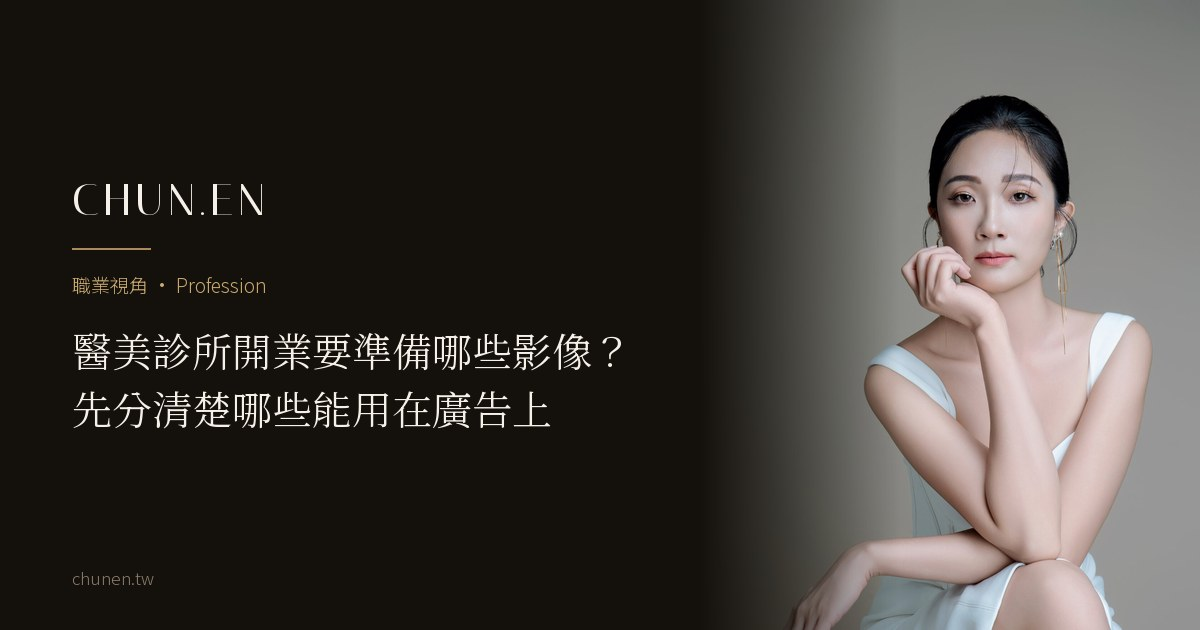
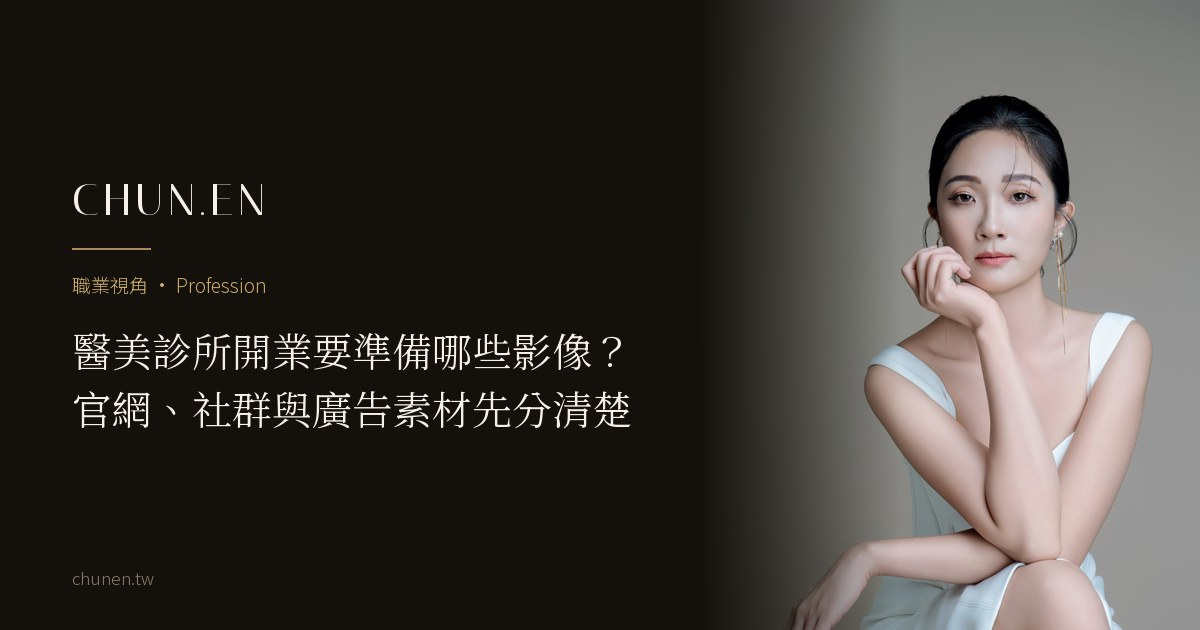
journal(醫美診所篇)：依 09/10 完整審閱改 v2，法規段改引正式文號
P0（審閱判斷正確，過度結論是我寫的）：
- 取消「人物、團隊、空間影像是相對能自由使用的一類」。醫療廣告是否合法看圖片、
  搭配文字、療程與價格、發布目的與整體呈現，不看素材類型。搜尋摘要、本文重點、
  正文、Quote、FAQ 五處同步改掉
- FAQ「素材本身可以」改成「不一定」
- H1 不再承諾替讀者判定「哪些能用在廣告上」

法規段查證後改寫：
- 回兩個官方頁面（北市、高市衛生局）確認文號為衛部醫字第1051667434號，
  對應醫療法第 86 條第 7 款。北市稱「函」、高市稱「令公告」，類型不一，
  所以不寫「函釋」，直接引文號
- 兩個官方頁面都沒提到「取得病人同意」與「代言推薦同樣受限」，那兩句只出自
  第三方整理，已刪除或改成不帶具體法條主張的寫法
- 官方來源改為文字連結

其餘：Definition 移到開頭、四類表格前移、「比多數人想的」「才知道」
「不是照片，是規則」等無依據或假對立句型收掉。「素材會持續更新」段保留一句
條件式的經營者視角（本篇存在的理由），不寫成普遍情況。

Changed region(s): [[0.0617, 0.6032, 0.5242, 0.6937]]

diff --git a/journal/aesthetic-clinic-visual-assets.html b/journal/aesthetic-clinic-visual-assets.html
@@ -4,22 +4,22 @@
   <meta charset="UTF-8" />
   <meta name="viewport" content="width=device-width, initial-scale=1.0, viewport-fit=cover" />
   <meta name="robots" content="noindex" /><!-- 草稿：Kay 審核後移除此行＋掛列表頁＋入 sitemap -->
-  <title>醫美診所開業要準備哪些影像？先分清楚哪些能用在廣告上｜CHUN.EN 觀點</title>
-  <meta name="description" content="醫美診所開業要準備的影像素材，先看的其實是限制。治療前後比較影像與代言推薦受醫療法規範，人物、團隊與空間影像則是相對能自由使用的一類。這篇整理經營者要備哪四類影像，以及廣告版位與官網版位的要求差在哪。" />
+  <title>醫美診所開業要準備哪些影像？官網、社群與廣告素材先分清楚｜CHUN.EN 觀點</title>
+  <meta name="description" content="醫美診所開業常見要準備的影像，可以分成院長與醫師人物照、團隊照、空間照，以及官網、社群與廣告需要的版位素材。這篇整理四類素材各自的用途、拍攝前要確認的事，以及素材進入醫療廣告時要一起注意的法規邊界。" />
   <meta name="theme-color" content="#14100B" />
   <link rel="icon" href="/favicon.ico" sizes="48x48" />
   <link rel="icon" href="/favicon-32.png" type="image/png" sizes="32x32" />
   <link rel="apple-touch-icon" href="/apple-touch-icon.png" />
   <link rel="canonical" href="https://chunen.tw/journal/aesthetic-clinic-visual-assets.html" />
-  <meta property="og:title" content="醫美診所開業要準備哪些影像？先分清楚哪些能用在廣告上｜CHUN.EN 觀點" />
-  <meta property="og:description" content="醫美診所能自由使用的影像，比多數人想的少。先分清楚哪些能用，再決定拍什麼。" />
+  <meta property="og:title" content="醫美診所開業要準備哪些影像？官網、社群與廣告素材先分清楚｜CHUN.EN 觀點" />
+  <meta property="og:description" content="醫美診所開業的影像分成四類；進入廣告時，要連同文字、目的與整體內容一起看。" />
   <meta property="og:image" content="https://chunen.tw/assets/og/aesthetic-clinic-visual-assets-og.jpg" />
   <meta property="og:url" content="https://chunen.tw/journal/aesthetic-clinic-visual-assets.html" />
   <meta property="og:type" content="article" />
   <meta property="og:locale" content="zh_TW" />
   <meta name="twitter:card" content="summary_large_image" />
-  <meta name="twitter:title" content="醫美診所開業要準備哪些影像？先分清楚哪些能用在廣告上｜CHUN.EN 觀點" />
-  <meta name="twitter:description" content="醫美診所能自由使用的影像，比多數人想的少。先分清楚哪些能用，再決定拍什麼。" />
+  <meta name="twitter:title" content="醫美診所開業要準備哪些影像？官網、社群與廣告素材先分清楚｜CHUN.EN 觀點" />
+  <meta name="twitter:description" content="醫美診所開業的影像分成四類；進入廣告時，要連同文字、目的與整體內容一起看。" />
   <meta name="twitter:image" content="https://chunen.tw/assets/og/aesthetic-clinic-visual-assets-og.jpg" />
   <link rel="preconnect" href="https://fonts.googleapis.com" />
   <link rel="preconnect" href="https://fonts.gstatic.com" crossorigin />
@@ -68,7 +68,7 @@
     <header style="padding: clamp(9rem, 16vh, 11rem) 0 clamp(2rem, 4vh, 3rem);">
       <div class="wrap article-wrap">
         <p class="hero-eyebrow rv">職業視角 · Profession</p>
-        <h1 class="rv rv-d1" style="font-weight: 300; font-size: clamp(1.9rem, 4.4vw, 3.2rem); line-height: 1.4; margin-top: 1rem;"><span style="white-space:nowrap;">醫美診所開業</span><span style="white-space:nowrap;">要準備哪些影像？</span><br><span style="white-space:nowrap;">先分清楚</span><span style="white-space:nowrap;">哪些能用在廣告上</span></h1>
+        <h1 class="rv rv-d1" style="font-weight: 300; font-size: clamp(1.9rem, 4.4vw, 3.2rem); line-height: 1.4; margin-top: 1rem;"><span style="white-space:nowrap;">醫美診所開業</span><span style="white-space:nowrap;">要準備哪些影像？</span><br><span style="white-space:nowrap;">官網、社群與廣告素材</span><span style="white-space:nowrap;">先分清楚</span></h1>
         <p class="article-meta rv rv-d2">CHUN.EN 觀點 · 2026 · 閱讀約 6 分鐘</p>
       </div>
     </header>
@@ -80,64 +80,63 @@
       <div class="keypoints rv">
         <p class="kp-t">In This Article · 本文重點</p>
         <ul>
-            <li>治療前後比較影像與代言推薦受醫療法規範，可使用的範圍有限</li>
-            <li>人物、團隊與空間影像不涉及療效宣稱，是相對能自由使用的一類</li>
-            <li>官網版位與廣告版位對素材的要求不同，拍攝前就要分開</li>
+            <li>醫美診所開業常見的影像素材，可以分成人物照、團隊照、空間照與版位素材四類</li>
+            <li>療程前後比較影像用於醫療業務宣傳，屬於醫療廣告需要特別注意的限制</li>
+            <li>素材進入廣告時，要連同圖片、文字、療程與價格資訊、發布目的與整體內容一起判斷</li>
           </ul>
       </div>
 
       <div class="article-body rv">
-<p class="article-lead">開一家醫美診所要準備的影像，比多數人想的多；但真正能自由使用的，比多數人想的少。</p>
-<p>多數人會先想到療程前後的對比照，那卻是限制最多的一類。</p>
+<p class="article-lead">醫美診所開業常見要準備的影像，可以先分成院長與醫師人物照、團隊照、空間照，以及官網、社群與廣告等版位需要的素材。</p>
+<p>這些素材的用途不同，進入醫療廣告時也不能只看照片本身，還要一起確認搭配文字、發布目的與整體內容。</p>
 
-<h2>先看限制，再決定拍什麼</h2>
-<p>醫療法第 86 條規範醫療廣告不得以不正當方式為之。依衛生福利部 105 年 11 月 17 日的函釋，把手術或治療前後的比較影像用於醫療業務宣傳，屬於違反該條的不正當宣傳方式；若是在機構內、事先取得病人同意，作為治療說明或衛生教育的輔助圖片，則不屬於醫療廣告。代言推薦同樣受到限制。</p>
-<p>也就是說，最直覺的兩類素材，對比照與見證，可用的範圍都被限縮。</p>
-<p>相對的，人物、團隊與空間影像本身不涉及療效宣稱，是診所少數能同時放在官網、Google 商家、社群與廣告版位的視覺資產。</p>
-<p>實際上是否構成醫療廣告、是否符合規範，仍要看整體內容判斷，正式發布前由院所依當時法規與主管機關指引完成法遵確認。</p>
-<p>延伸資料｜衛福部醫療廣告管理資訊 <a href="https://dep.mohw.gov.tw/DOMA/fp-2708-38120-106.html" rel="nofollow">https://dep.mohw.gov.tw/DOMA/fp-2708-38120-106.html</a></p>
-
-<h2>經營者要備的四類影像</h2>
+<h2>開業常見的四類影像</h2>
 <div class="tbl-scroll">
 <table>
 <thead><tr><th>類別</th><th>常見版位</th><th>拍攝前先確認</th></tr></thead>
 <tbody>
-<tr><td>院長與醫師人物照</td><td>官網團隊頁、掛號頁、Google 商家、媒體</td><td>是否需要白袍、正式程度、橫式／直式與裁切需求</td></tr><tr><td>團隊照</td><td>官網、社群、招募頁</td><td>背景、光線、構圖與著裝規則能不能留下來重複使用</td></tr><tr><td>空間照</td><td>Google 商家、官網、地圖</td><td>與人物照的色溫與明暗是否同一個方向</td></tr><tr><td>品牌與版位素材</td><td>廣告、DM、社群模板</td><td>留白位置、需要哪些比例、文案之後要放在哪</td></tr>
+<tr><td>院長與醫師人物照</td><td>官網團隊頁、掛號頁、Google 商家、媒體</td><td>是否需要白袍、正式程度、橫式／直式與裁切需求</td></tr><tr><td>團隊照</td><td>官網、社群、招募頁</td><td>背景、光線、構圖與著裝規則能不能留下來重複使用</td></tr><tr><td>空間照</td><td>Google 商家、官網、地圖</td><td>與人物照的色溫與明暗是否同一個方向</td></tr><tr><td>廣告與社群版位素材</td><td>廣告、DM、社群貼文與活動頁面</td><td>文字留白、橫直比例、人物位置與後續裁切需求</td></tr>
 </tbody>
 </table>
 </div>
-<p>四類不一定要一次拍完，但版位先列出來，才知道同一次拍攝要出幾種比例與構圖。</p>
+<p>四類不一定要一次拍完。版位先列出來，會比較容易判斷同一次拍攝需要哪些比例、構圖與留白。</p>
 
-<h2>官網版位與廣告版位，要的東西不一樣</h2>
-<p>官網可以用完整構圖，讀者會停下來看。廣告版位不會，它需要留白給文案、需要多種比例、還要通過投放平台與法遵兩道審查。</p>
-<p>還有一層更容易被忽略：人物影像本身不涉及療效，但一旦與療程名稱、價格或效果描述並置，整組素材就會被當成醫療廣告來看待。</p>
-<p>所以在拍攝階段就要先分開：哪些是官網與 Google 商家用的人物影像，哪些預計會進廣告版位。分開之後，構圖、比例與留白才有依據。</p>
-<blockquote>人物影像不涉療效，是診所在法規限制下少數能放心使用的視覺資產；一旦與療效宣稱並置，判斷標準就不同了。</blockquote>
+<h2>素材進入廣告時，要注意的法規邊界</h2>
+<p>依衛生福利部 105 年 11 月 17 日衛部醫字第1051667434號，非用於醫療機構診療說明、衛生教育或醫療知識用途，利用手術或治療前後之比較影像進行醫療業務宣傳，屬於醫療法第 86 條第 7 款所稱以其他不正當方式為宣傳。</p>
+<p>代言、推薦與消費者見證也需要特別注意醫療廣告規範，不能直接把一般商品廣告的做法套用到醫療服務。</p>
+<p>至於人物照、團隊照與空間照，一旦用於醫療業務宣傳，是否符合規範仍要一起看圖片本身、搭配文字、療程與價格資訊、發布目的與整體呈現，沒有哪一類照片可以只靠素材類型直接判定。正式發布前，由院所依當時法規與主管機關指引完成法遵確認。</p>
+<p>延伸資料｜<a href="https://health.gov.taipei/cp.aspx?n=35789E4E51976125" rel="nofollow">臺北市政府衛生局 美容醫學</a></p>
 
-<h2>這件事通常不是醫師在管</h2>
-<p>醫師看診。官網、Google 商家、社群與廣告素材，多半落在經營者或行銷窗口身上。</p>
-<p>這也是為什麼影像一致性難維持：拍攝那天醫師在場，但之後每一次補拍、每一次換版位、每一次新人到職，決定的人都不是他。</p>
-<p>能留下來的不是照片，是規則。背景、光線、構圖與著裝正式程度只要留成一套可以交給下一位攝影師的規範，新醫師補拍時就不必重新決定一次。</p>
+<h2>官網與廣告版位，素材準備方式不同</h2>
+<p>官網通常有較大的版面彈性，可以依頁面設計安排完整構圖；廣告素材則常需要另外準備不同尺寸、文字留白與人物位置。</p>
+<p>這裡談的是版面使用差異，不代表官網內容不受醫療法規範。只要內容涉及醫療業務宣傳，仍要依實際文字、圖片、版位與發布目的判斷。</p>
+<p>如果同一批素材預計同時用在官網、Google 商家、社群與廣告，拍攝前先把主要版位列出來，會比較容易決定構圖與留白。</p>
+<blockquote>同一張人物照，放在不同文字與版位裡，可能成為完全不同的廣告內容。</blockquote>
+
+<h2>素材會持續更新，規則也要一起留下來</h2>
+<p>開業後，人物、團隊、空間與社群素材可能在不同時間更新，也可能由不同合作人員接手。</p>
+<p>除了保留完成的照片，也建議把背景、光線、構圖與著裝正式程度留下紀錄。之後有新醫師加入或需要補拍時，會比較容易延續原本的方向，不必每次重新決定。</p>
+<p>如果官網、社群與廣告素材是由經營者或行銷窗口負責，這份紀錄也能讓不在拍攝現場的人延續同一個方向。</p>
 
 <figure class="article-fig crop45">
 <picture style="display:block"><source type="image/webp" srcset="../assets/gallery/works/12-760.webp 760w, ../assets/gallery/works/12-1240.webp 1240w" sizes="(max-width: 700px) calc(100vw - 40px), 620px" /><img src="../assets/gallery/works/12-1400.jpg" alt="淺灰背景前的女性坐姿半身人像，深色外套與收整的髮型" width="1400" height="2100" loading="lazy" /></picture>
-<figcaption>人物、團隊與空間如果沿用同一套光線與構圖方向，之後補拍才接得回來。（CHUN.EN 實際拍攝作品）</figcaption>
+<figcaption>人物、團隊與空間沿用同一套光線與構圖方向，之後補拍會比較容易接回原本的樣子。（CHUN.EN 實際拍攝作品）</figcaption>
 </figure>
 
 <h2>開業前，什麼時候拍</h2>
-<p>官網、Google 商家與社群在開幕之前就會被搜尋到，素材要在那之前到位。</p>
-<p>空間完工到開幕之間通常最趕，人物與團隊照可以提前拍，不必等硬體。空間照則要等裝修完成、燈光定案之後再拍，否則色溫與實際落差會很大。</p>
+<p>如果官網、Google 商家與社群會在開幕前上線，人物與團隊素材可以提早準備，不一定要等空間全部完工。</p>
+<p>空間照則較適合等主要裝修與燈光完成後再拍，避免照片和正式營運後的空間出現明顯差異。</p>
 <p>如果角色與版位都還沒定，可以先從商業視覺定位開始，確認診所要對誰說話、影像會用在哪些地方，再決定拍攝內容。需要從角色一路整合到服裝、妝髮與拍攝時，則進入 Signature <a href="../signature.html">商業視覺整合企劃</a>，標準交付裡包含影像應用指南，說明哪一張用在哪個版位。</p>
 <p>診所整體的一致性怎麼檢查，可延伸閱讀〈<a href="clinic-image-consistency.html">開業醫師的形象總體檢</a>〉。</p>
 
 <h2>常見<em>問題</em></h2>
 <p>本文從商業視覺與影像應用的角度出發，不構成醫療、法律或院所法遵意見。</p>
 <div class="faq">
-<details><summary>醫美診所開業要準備哪些影像？和一般大頭照差在哪？<span class="mark">+</span></summary><div class="a">醫美診所開業要準備的影像，是使用在診所官網、Google 商家、社群與廣告版位的人物與團隊照片，處理的是人物辨識與診所對外的視覺一致性。除了拍得清楚，還要一起考慮版位比例、留白與後續會不會進廣告。一般大頭照若已經符合現有用途，不一定需要重拍。</div></details>
-<details><summary>療程前後的對比照可以用嗎？<span class="mark">+</span></summary><div class="a">依醫療法第 86 條與衛福部 105 年 11 月 17 日函釋，把治療前後的比較影像用於醫療業務宣傳，屬於不正當的宣傳方式；在機構內、事先取得病人同意，作為治療說明或衛生教育的輔助圖片，則不屬於醫療廣告。實際判斷仍要看整體內容與發布目的，正式發布前建議由院所完成法遵確認。</div></details>
-<details><summary>診所醫師會流動，團隊照怎麼維持？<span class="mark">+</span></summary><div class="a">把背景、光線、構圖與著裝規範留下來。新成員補拍時就能接回既有的團隊照，不必每次重新決定一套做法，也不用為了一個人重拍全部。</div></details>
-<details><summary>開業前多久要開始準備影像？<span class="mark">+</span></summary><div class="a">從官網與 Google 商家需要上線的時間往回推。人物與團隊照可以在空間完工前先完成，空間照則等裝修與燈光定案再拍。實際時程依裝修進度與開幕日安排。</div></details>
-<details><summary>這些影像可以直接拿去投廣告嗎？<span class="mark">+</span></summary><div class="a">素材本身可以，但要先確認兩件事：投放平台需要的比例與留白，以及素材與文案並置之後是否仍符合醫療廣告規範。人物照不涉療效，搭配的文字才是判斷重點。</div></details>
+<details><summary>醫美診所開業要準備哪些影像？和一般大頭照差在哪？<span class="mark">+</span></summary><div class="a">可以先分成四類：院長與醫師人物照、團隊照、空間照，以及官網、社群與廣告需要的版位素材。一般大頭照主要處理人物辨識；開業使用的素材還要一起考慮團隊一致性、空間呈現、不同版位的構圖與留白，以及進入醫療廣告時的法規邊界。</div></details>
+<details><summary>療程前後的對比照可以用嗎？<span class="mark">+</span></summary><div class="a">依衛生福利部 105 年 11 月 17 日衛部醫字第1051667434號，非用於醫療機構診療說明、衛生教育或醫療知識用途，利用手術或治療前後之比較影像進行醫療業務宣傳，屬於醫療法第 86 條第 7 款的不正當宣傳方式。實際判斷仍要看整體內容與發布目的，正式發布前建議由院所完成法遵確認。</div></details>
+<details><summary>診所醫師會流動，團隊照怎麼維持？<span class="mark">+</span></summary><div class="a">把背景、光線、構圖與著裝規範留下紀錄。新成員補拍時就能接回既有的團隊照，不必每次重新決定一套做法，也不用為了一個人重拍全部。</div></details>
+<details><summary>開業前多久要開始準備影像？<span class="mark">+</span></summary><div class="a">從官網與 Google 商家預計上線的時間往回推。人物與團隊照可以在空間完工前先準備，空間照較適合等主要裝修與燈光完成後再拍。實際時程依裝修進度與開幕日安排。</div></details>
+<details><summary>這些影像可以直接拿去投廣告嗎？<span class="mark">+</span></summary><div class="a">不一定。人物照、團隊照與空間照可以作為廣告素材來源，但正式投放時，仍要一起看圖片本身、搭配文字、療程與價格資訊、發布目的，以及整體內容是否符合醫療廣告規範與投放平台要求。正式發布前，仍應由院所依當時法規與主管機關指引完成法遵確認。</div></details>
 </div>
 </div>
 
@@ -180,11 +179,11 @@
 
   <a class="float-line" href="https://lin.ee/wINWAGj" target="_blank" rel="noopener" aria-label="LINE 諮詢"><svg viewBox="0 0 24 24" fill="#fff" xmlns="http://www.w3.org/2000/svg"><path d="M12 2C6.48 2 2 5.64 2 10.13c0 4.03 3.58 7.4 8.42 8.04.33.07.77.22.89.5.1.26.07.66.03.92l-.14.86c-.04.26-.2 1.01.89.55 1.09-.46 5.87-3.46 8.01-5.92C21.56 13.44 22 11.86 22 10.13 22 5.64 17.52 2 12 2zM8.39 12.8H6.16a.53.53 0 0 1-.53-.53V8.51a.53.53 0 0 1 1.06 0v3.23h1.7a.53.53 0 1 1 0 1.06zm1.83-.53a.53.53 0 0 1-1.06 0V8.51a.53.53 0 0 1 1.06 0v3.76zm4.54 0a.53.53 0 0 1-.36.5.55.55 0 0 1-.17.03.52.52 0 0 1-.42-.21l-1.93-2.62v2.3a.53.53 0 0 1-1.06 0V8.51a.53.53 0 0 1 .36-.5.52.52 0 0 1 .59.18l1.93 2.62v-2.3a.53.53 0 0 1 1.06 0v3.76zm3.64-2.41a.53.53 0 1 1 0 1.06h-1.7v.82h1.7a.53.53 0 1 1 0 1.06h-2.23a.53.53 0 0 1-.53-.53V8.51c0-.29.24-.53.53-.53h2.23a.53.53 0 1 1 0 1.06h-1.7v.82h1.7z"/></svg></a>
 
-  <script type="application/ld+json">{"@context": "https://schema.org","@type": "Article","headline": "醫美診所開業要準備哪些影像？先分清楚哪些能用在廣告上","description": "醫美診所開業要準備的影像素材，先看的其實是限制。治療前後比較影像與代言推薦受醫療法規範，人物、團隊與空間影像則是相對能自由使用的一類。這篇整理經營者要備哪四類影像，以及廣告版位與官網版位的要求差在哪。","image": "https://chunen.tw/assets/gallery/works/21-1400.jpg","author": {"@type": "Person","@id": "https://chunen.tw/author/zoey-wu.html#zoey","name": "吳惇恩","alternateName": "Zoey Wu","jobTitle": "Founder & Brand Director","image": "https://chunen.tw/assets/images/zoey-author-640.jpg","url": "https://chunen.tw/author/zoey-wu.html"},"publisher": {"@type": "Organization","@id": "https://chunen.tw/#business","name": "CHUN.EN 形象美學","logo": {"@type": "ImageObject","url": "https://chunen.tw/icon-512.png"}},"datePublished": "2026-07-18","inLanguage": "zh-Hant-TW","isPartOf": {"@id": "https://chunen.tw/#website"},"mainEntityOfPage": "https://chunen.tw/journal/aesthetic-clinic-visual-assets.html"}</script>
+  <script type="application/ld+json">{"@context": "https://schema.org","@type": "Article","headline": "醫美診所開業要準備哪些影像？官網、社群與廣告素材先分清楚","description": "醫美診所開業常見要準備的影像，可以分成院長與醫師人物照、團隊照、空間照，以及官網、社群與廣告需要的版位素材。這篇整理四類素材各自的用途、拍攝前要確認的事，以及素材進入醫療廣告時要一起注意的法規邊界。","image": "https://chunen.tw/assets/gallery/works/21-1400.jpg","author": {"@type": "Person","@id": "https://chunen.tw/author/zoey-wu.html#zoey","name": "吳惇恩","alternateName": "Zoey Wu","jobTitle": "Founder & Brand Director","image": "https://chunen.tw/assets/images/zoey-author-640.jpg","url": "https://chunen.tw/author/zoey-wu.html"},"publisher": {"@type": "Organization","@id": "https://chunen.tw/#business","name": "CHUN.EN 形象美學","logo": {"@type": "ImageObject","url": "https://chunen.tw/icon-512.png"}},"datePublished": "2026-07-18","inLanguage": "zh-Hant-TW","isPartOf": {"@id": "https://chunen.tw/#website"},"mainEntityOfPage": "https://chunen.tw/journal/aesthetic-clinic-visual-assets.html"}</script>
 
   <script src="../v5.js?v=202609061500" defer></script>
   <script src="../consent.js?v=202608101000" defer></script>
-  <script type="application/ld+json">{"@context": "https://schema.org","@type": "FAQPage","mainEntity": [{"@type": "Question","name": "醫美診所開業要準備哪些影像？和一般大頭照差在哪？","acceptedAnswer": {"@type": "Answer","text": "醫美診所開業要準備的影像，是使用在診所官網、Google 商家、社群與廣告版位的人物與團隊照片，處理的是人物辨識與診所對外的視覺一致性。除了拍得清楚，還要一起考慮版位比例、留白與後續會不會進廣告。一般大頭照若已經符合現有用途，不一定需要重拍。"}},{"@type": "Question","name": "療程前後的對比照可以用嗎？","acceptedAnswer": {"@type": "Answer","text": "依醫療法第 86 條與衛福部 105 年 11 月 17 日函釋，把治療前後的比較影像用於醫療業務宣傳，屬於不正當的宣傳方式；在機構內、事先取得病人同意，作為治療說明或衛生教育的輔助圖片，則不屬於醫療廣告。實際判斷仍要看整體內容與發布目的，正式發布前建議由院所完成法遵確認。"}},{"@type": "Question","name": "診所醫師會流動，團隊照怎麼維持？","acceptedAnswer": {"@type": "Answer","text": "把背景、光線、構圖與著裝規範留下來。新成員補拍時就能接回既有的團隊照，不必每次重新決定一套做法，也不用為了一個人重拍全部。"}},{"@type": "Question","name": "開業前多久要開始準備影像？","acceptedAnswer": {"@type": "Answer","text": "從官網與 Google 商家需要上線的時間往回推。人物與團隊照可以在空間完工前先完成，空間照則等裝修與燈光定案再拍。實際時程依裝修進度與開幕日安排。"}},{"@type": "Question","name": "這些影像可以直接拿去投廣告嗎？","acceptedAnswer": {"@type": "Answer","text": "素材本身可以，但要先確認兩件事：投放平台需要的比例與留白，以及素材與文案並置之後是否仍符合醫療廣告規範。人物照不涉療效，搭配的文字才是判斷重點。"}}]}</script>
+  <script type="application/ld+json">{"@context": "https://schema.org","@type": "FAQPage","mainEntity": [{"@type": "Question","name": "醫美診所開業要準備哪些影像？和一般大頭照差在哪？","acceptedAnswer": {"@type": "Answer","text": "可以先分成四類：院長與醫師人物照、團隊照、空間照，以及官網、社群與廣告需要的版位素材。一般大頭照主要處理人物辨識；開業使用的素材還要一起考慮團隊一致性、空間呈現、不同版位的構圖與留白，以及進入醫療廣告時的法規邊界。"}},{"@type": "Question","name": "療程前後的對比照可以用嗎？","acceptedAnswer": {"@type": "Answer","text": "依衛生福利部 105 年 11 月 17 日衛部醫字第1051667434號，非用於醫療機構診療說明、衛生教育或醫療知識用途，利用手術或治療前後之比較影像進行醫療業務宣傳，屬於醫療法第 86 條第 7 款的不正當宣傳方式。實際判斷仍要看整體內容與發布目的，正式發布前建議由院所完成法遵確認。"}},{"@type": "Question","name": "診所醫師會流動，團隊照怎麼維持？","acceptedAnswer": {"@type": "Answer","text": "把背景、光線、構圖與著裝規範留下紀錄。新成員補拍時就能接回既有的團隊照，不必每次重新決定一套做法，也不用為了一個人重拍全部。"}},{"@type": "Question","name": "開業前多久要開始準備影像？","acceptedAnswer": {"@type": "Answer","text": "從官網與 Google 商家預計上線的時間往回推。人物與團隊照可以在空間完工前先準備，空間照較適合等主要裝修與燈光完成後再拍。實際時程依裝修進度與開幕日安排。"}},{"@type": "Question","name": "這些影像可以直接拿去投廣告嗎？","acceptedAnswer": {"@type": "Answer","text": "不一定。人物照、團隊照與空間照可以作為廣告素材來源，但正式投放時，仍要一起看圖片本身、搭配文字、療程與價格資訊、發布目的，以及整體內容是否符合醫療廣告規範與投放平台要求。正式發布前，仍應由院所依當時法規與主管機關指引完成法遵確認。"}}]}</script>
 
   <script type="application/ld+json">{"@context": "https://schema.org","@type": "BreadcrumbList","itemListElement": [{"@type": "ListItem","position": 1,"name": "首頁","item": "https://chunen.tw/"},{"@type": "ListItem","position": 2,"name": "專欄","item": "https://chunen.tw/journal/aesthetic-clinic-visual-assets.html"},{"@type": "ListItem","position": 3,"name": "醫美診所開業要準備哪些影像？先分清楚哪些能用在廣告上","item": "https://chunen.tw/journal/aesthetic-clinic-visual-assets.html"}]}</script>
 </body>
